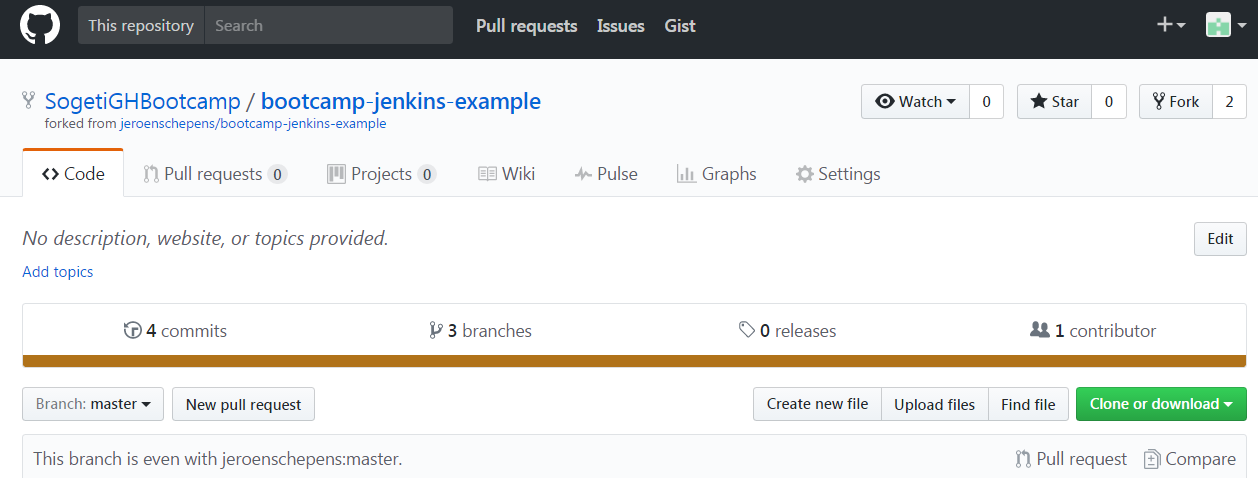
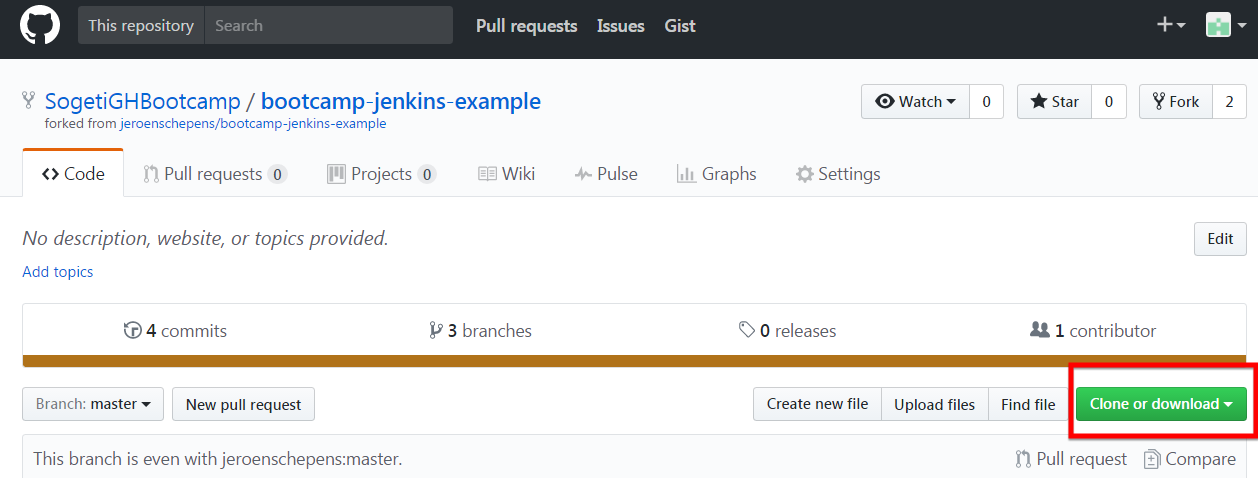
updated last GH image.

Changed region(s): [[0.837, 0.7322, 1.0, 0.9372]]

diff --git a/docs/Install.md b/docs/Install.md
@@ -1,5 +1,20 @@
 click [here](../README.md) to go back to the main README. 
 
+# Table of Contents
+- [jenkins](#Jenkins)
+- - [Install](#install-instructions)
+- - [Java](#Java)
+- - [Docker](#Docker)
+- - [Mac](#Mac)
+- - [Windows](#Windows)
+- - [Your first run](#First-Run)
+- - [Changing Ports](#change-port)
+- - [next Up](#Next-Up)
+- [Additional Software](#Additional-Software)
+- - [Git](#Git)
+- - [Java SDK](#Java-SDK)
+- - [GitHub Account](#GitHub-Account)
+
 It would be silly to let you do a Jenkins Bootcamp without the software we are going to use mainly... Below are instructions to download Jenkins, additional software and to set up your GitHub Account.
 
 In this Chapter we will discuss the following topics:
